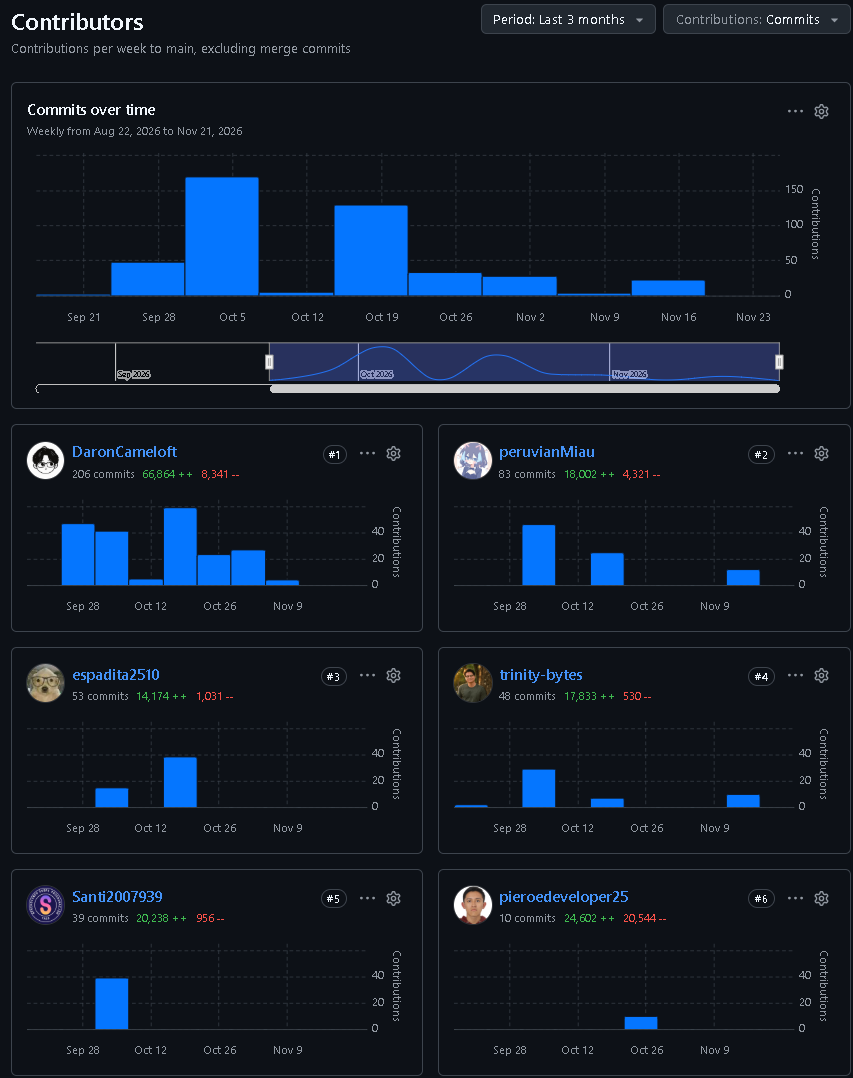
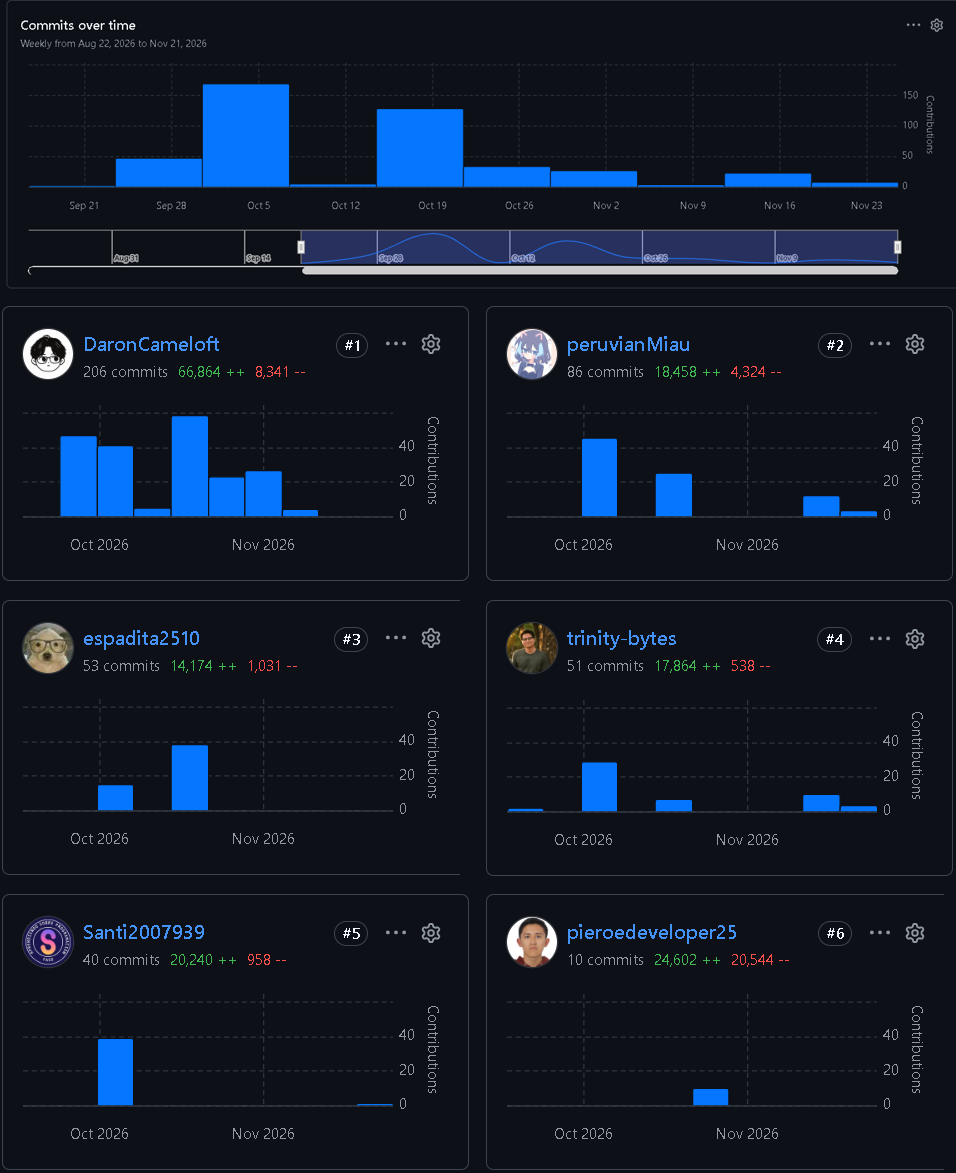
feat(sprint-3): update android contributors evidence

diff --git a/report/chapters/40-product-implementation-validation/46-sprint-3.md b/report/chapters/40-product-implementation-validation/46-sprint-3.md
@@ -796,7 +796,7 @@ Para respaldar la trazabilidad del trabajo colaborativo en los repositorios de l
 
 En el repositorio `viora-platform` la actividad del Sprint 3 es menor que la de los sprints anteriores y se distribuye en las semanas del 9, 16 y 23 de noviembre (\autoref{fig:contributors-s3}, panel a). Este comportamiento corresponde a ajustes puntuales sobre contextos ya implementados: el descarte en la liquidación de cosecha, el nombre del lote en el resumen del día, y el código de socio, el calibre del muestreo y los rangos de calibre de la proyección de acopio.
 
-En el repositorio `viora-mobile-android` la actividad del Sprint 3 se concentra en la semana del 16 de noviembre (\autoref{fig:contributors-s3}, panel b), en la que se integraron las mejoras de la aplicación del productor: la detección de la ubicación desactivada, la comparación de áreas, las alertas críticas fuera de la aplicación, el descarte de cosecha, el ajuste de las fechas de las fases y la ayuda de términos agronómicos.
+En el repositorio `viora-mobile-android` la actividad del Sprint 3 se concentra en las semanas del 16 y del 23 de noviembre (\autoref{fig:contributors-s3}, panel b), en las que se integraron las mejoras de la aplicación del productor: la detección de la ubicación desactivada, la comparación de áreas, las alertas críticas fuera de la aplicación, el descarte de cosecha, el ajuste de las fechas de las fases y la ayuda de términos agronómicos.
 
 En el repositorio `viora-mobile-flutter` la mayor parte del trabajo se realizó en el Sprint 2, por lo que durante el Sprint 3 solo se registra actividad en la semana del 23 de noviembre (\autoref{fig:contributors-s3}, panel c). Este ritmo es coherente con el alcance del ciclo, que se limitó a las correcciones de la aplicación del gestor técnico identificadas en su evaluación heurística.
 
